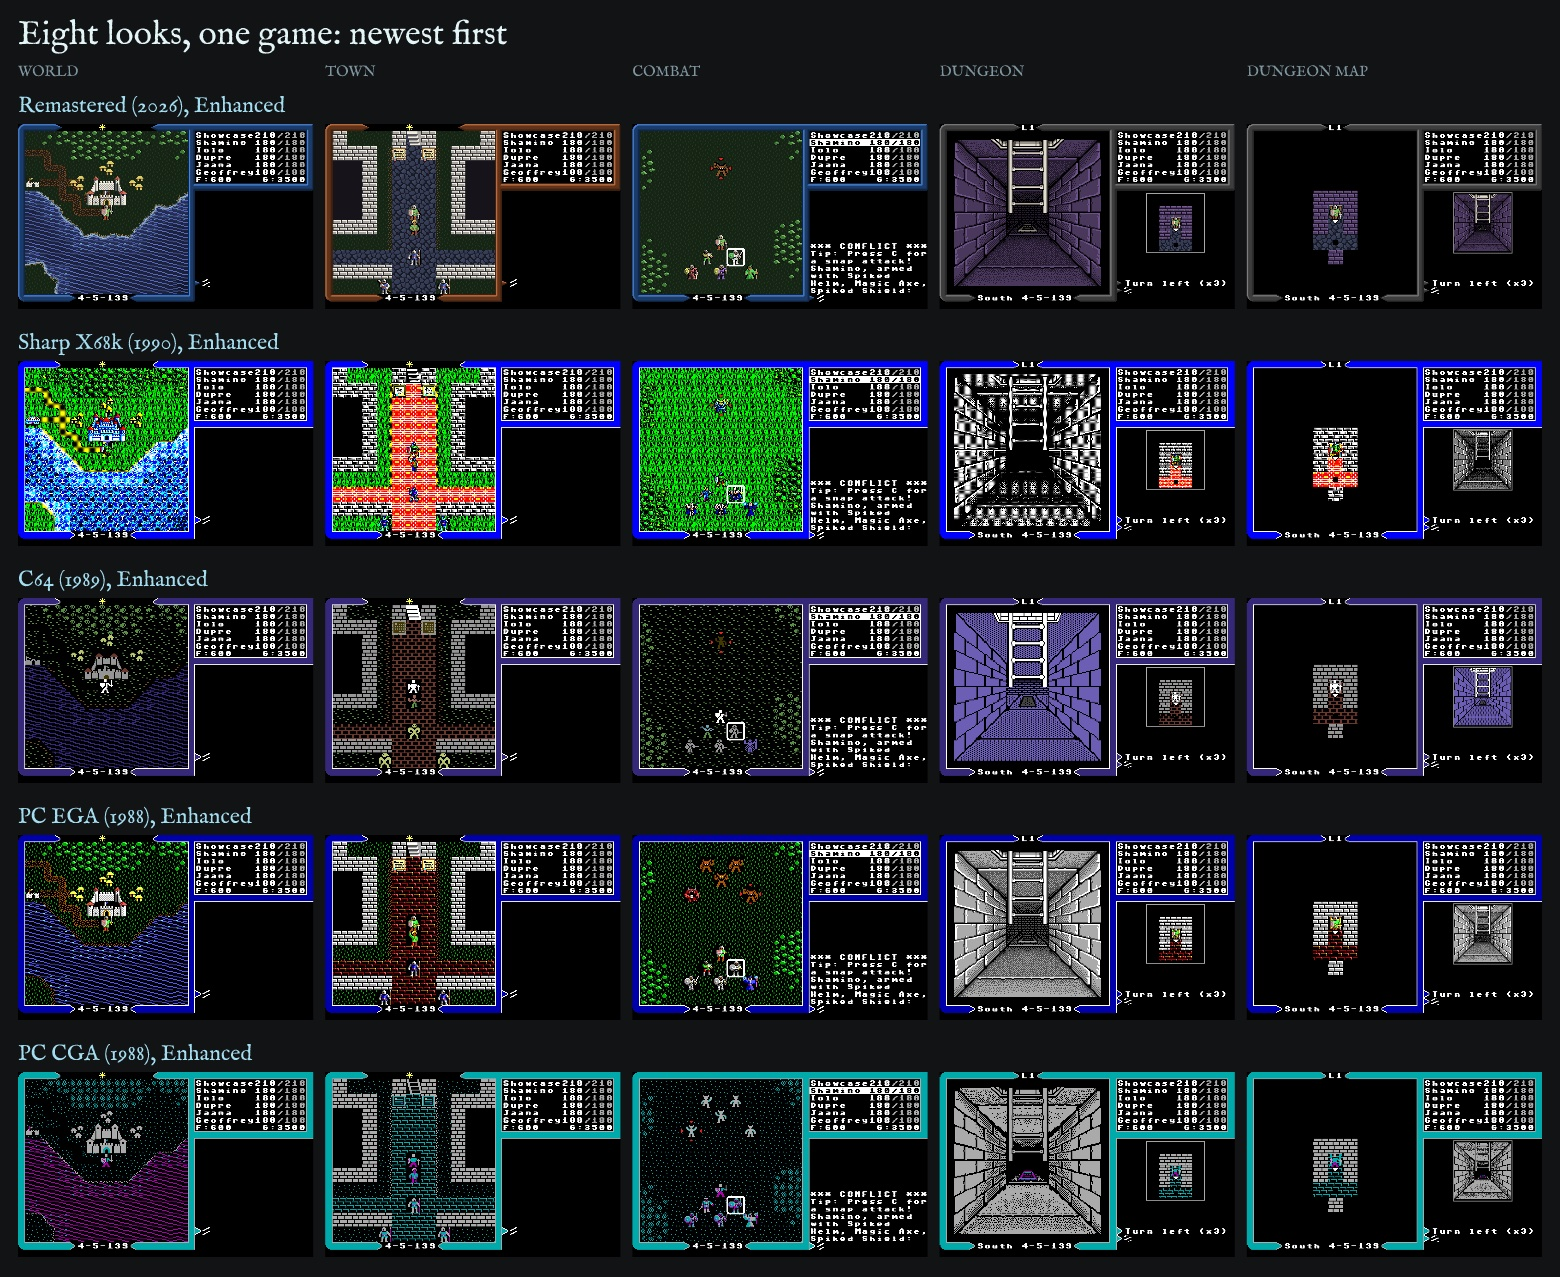
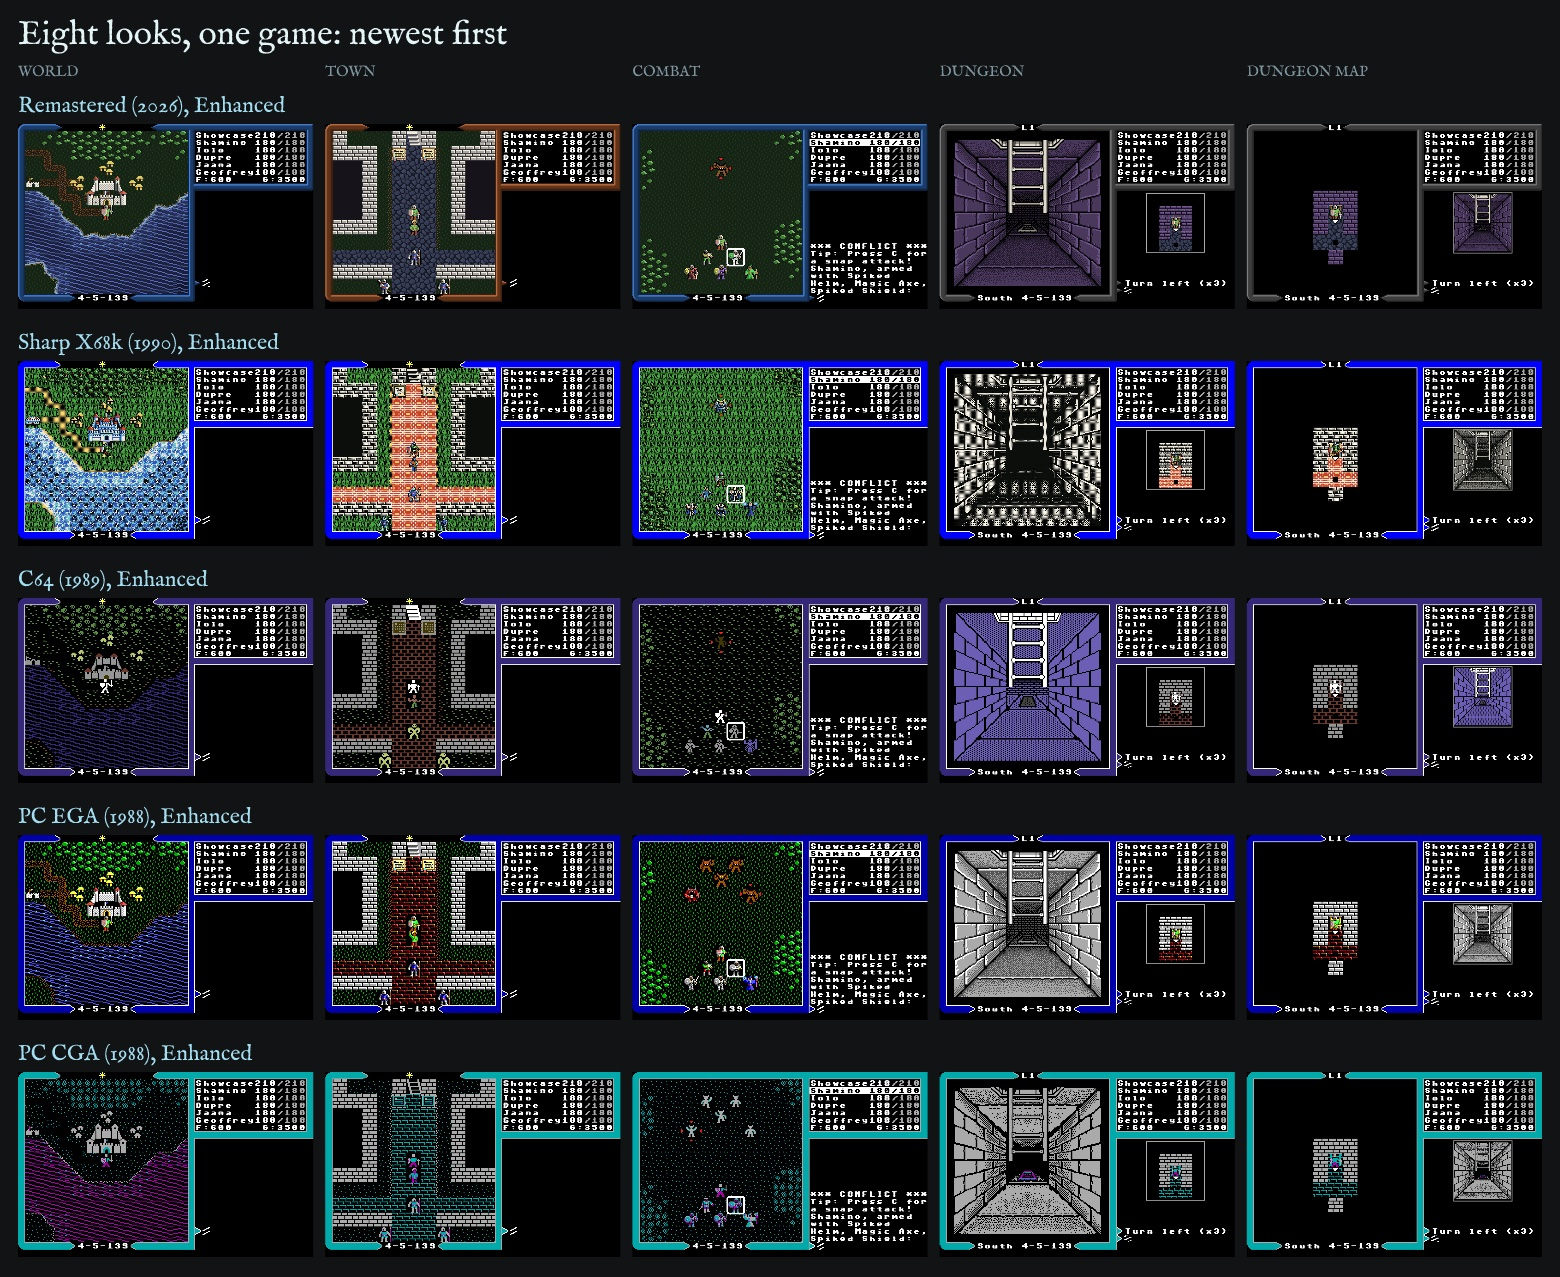
Sharp X68k: the softer colours kept, its pixels crisp again
The tone no longer blends each pixel with its neighbours across: the eight
colours are still shown as their softer ones, the dithers hard-edged. The
blend stays in sheetTone.ts, tested with a tone that asks for it. The looks
sheet's X68k row taken again, in the soft colours.

diff --git a/web/tests/x68kTone.test.ts b/web/tests/x68kTone.test.ts
@@ -4,7 +4,6 @@ import { decodePng } from '../tools/png.ts';
 import { cellOf, rgba, sheetArt, X68K_SHEET } from '../src/ui/sheetArt.ts';
 import { toned } from '../src/ui/sheetTone.ts';
 import { skinFromSheet, SKIN_SPECS, X68K_PALETTE, X68K_SOFT, X68K_TONE } from '../src/ui/skins.ts';
-import { CELL } from '../src/ui/standardArt.ts';
 
 const graphic = (name: string) => decodePng(readFileSync(new URL(`../public/graphics/${name}`, import.meta.url)));
 const words = (png: ReturnType<typeof decodePng>): Uint32Array =>
@@ -13,8 +12,8 @@ const CLEAR = 0;
 
 /**
  * The Sharp X68k set softened (sheetTone.ts): its eight colours, full on and full off as the X68000's text palette
- * has them, shown as gentler ones, and each pixel blended a little with its neighbours across, as a monitor ran the
- * dither's two colours together. The sheets stay the disk's own; the tone is laid on as each tile is drawn.
+ * has them, shown as gentler ones, each pixel kept crisp - none blended with its neighbours. (The blend itself is
+ * tested here with a tone that asks for it.) The sheets stay the disk's own; the tone is laid on as each tile is drawn.
  */
 describe('the Sharp X68k tone', () => {
   it('shows each of the eight colours as its softer one', () => {
@@ -41,16 +40,29 @@ describe('the Sharp X68k tone', () => {
     expect(Array.from(toned(big, 8, 1, { colours: new Map(), blend: true }, 2))).toEqual(Array.from(once).flatMap((v) => [v, v]));
   });
 
-  it("draws the set's squares softened: none of its full-on colours left, the grass blended", () => {
-    const png = graphic('x68k-u5-tiles.png');
-    const art = sheetArt(X68K_SHEET, new Uint8Array(512 * 128), words(png), png.width, null);
-    const grass = art.square(5)!;
-    const harsh = new Set(X68K_PALETTE.map(rgba));
-    expect(grass.some((v) => harsh.has(v))).toBe(false);
-    expect(Array.from(grass)).toEqual(Array.from(toned(cellOf(X68K_SHEET, words(png), png.width, 5), CELL, CELL, X68K_TONE, CELL / 32)));
+  it('blends nothing: its tone only shows each colour as its softer one', () => {
+    expect(X68K_TONE.blend).toBe(false);
   });
 
-  it('softens its dungeon, its lines and its sign as its tiles, and keeps its blue frame', () => {
+  it("draws the set's squares crisp: each pixel its soft colour, none blended", () => {
+    const png = graphic('x68k-u5-tiles.png');
+    const art = sheetArt(X68K_SHEET, new Uint8Array(512 * 128), words(png), png.width, null);
+    // The eight soft colours, and black where a figure's ground shows through: a blend would make colours between.
+    const soft = new Set([...X68K_SOFT.map(rgba), rgba(0x000000)]);
+    for (const tile of [5, 6, 8, 48, 0x100, 0x101]) {
+      const sq = art.square(tile)!;
+      expect(
+        sq.every((v) => v >>> 24 === 0 || soft.has(v)),
+        `tile ${tile}`,
+      ).toBe(true);
+    }
+    const grass = art.square(5)!;
+    const own = cellOf(X68K_SHEET, words(png), png.width, 5);
+    const asSoft = new Map(X68K_PALETTE.map((c, k) => [rgba(c), rgba(X68K_SOFT[k])]));
+    expect(Array.from(grass)).toEqual(Array.from(own, (v) => (v >>> 24 === 0 ? v : (asSoft.get(v) ?? v))));
+  });
+
+  it('softens its dungeon, its lines and its sign as its tiles, crisp, and keeps its blue frame', () => {
     const png = graphic('x68k-u5-dungeon.png');
     const spec = SKIN_SPECS.x68k!;
     const skin = skinFromSheet('x68k', words(png), png.width, spec.colours, spec.tone);
@@ -58,6 +70,8 @@ describe('the Sharp X68k tone', () => {
     const harsh = new Set(X68K_PALETTE.map(rgba));
     expect(wall.px.some((v) => v >>> 24 !== 0 && harsh.has(v))).toBe(false);
     const soft = new Set(X68K_SOFT.map(rgba));
+    // Each lit pixel one of the soft eight: none blended between them.
+    expect(wall.px.every((v) => v >>> 24 === 0 || soft.has(v))).toBe(true);
     for (const v of spec.colours.ink) expect(soft.has(v)).toBe(true);
     for (const c of [spec.colours.sign.edge, spec.colours.sign.ink]) expect(X68K_SOFT).toContain(c);
     expect(spec.colours.frame).toEqual({ blue: 0x0000ff, white: 0xffffff });

diff --git a/web/src/ui/skins.ts b/web/src/ui/skins.ts
@@ -178,7 +178,7 @@ export function skinFromSheet(
       if (!px) {
         px = new Uint32Array(w * h);
         for (let y = 0; y < h; y++) px.set(sheet.subarray((y0 + y) * width + x0, (y0 + y) * width + x0 + w), y * w);
-        // In the set's tone, where it has one (the X68k's), each piece alone: none blended with the next in the sheet.
+        // In the set's tone, where it has one (the X68k's), each piece alone (a tone that blends: none with the next in the sheet).
         if (tone) px = toned(px, w, h, tone);
         cut.set(key, px);
       }
@@ -218,11 +218,11 @@ export class SkinOvers {
 export const X68K_PALETTE = [0x000000, 0x0000ff, 0xff0000, 0xff00ff, 0x00ff00, 0x00ffff, 0xffff00, 0xffffff] as const;
 /**
  * The eight as the set shows them (sheetTone.ts): the text palette's full-on colours, harsh on a modern screen, as
- * gentler ones - in X68K_PALETTE's order.
+ * gentler ones, each pixel still its own (none blended) - in X68K_PALETTE's order.
  */
 export const X68K_SOFT = [0x0c0e0c, 0x3058c0, 0xc8442c, 0xa0508c, 0x44a03c, 0x6cc0cc, 0xe8c864, 0xece8dc] as const;
-/** The Sharp X68k set's tone: its eight as X68K_SOFT, each pixel blended with its neighbours across. */
-export const X68K_TONE: SheetTone = toneOf(X68K_PALETTE, X68K_SOFT, true);
+/** The Sharp X68k set's tone: its eight as X68K_SOFT, each pixel kept crisp (none blended with its neighbours). */
+export const X68K_TONE: SheetTone = toneOf(X68K_PALETTE, X68K_SOFT, false);
 /** A colour of the eight (0xRRGGBB) as the set shows it. */
 const x68kSoft = (c: number): number => X68K_SOFT[X68K_PALETTE.indexOf(c as (typeof X68K_PALETTE)[number])] ?? c;
 
@@ -357,8 +357,8 @@ export const SKIN_SPECS: Partial<
   },
   apple2e: monoSkin(APPLE_GREEN),
   apple2c: monoSkin(APPLE_WHITE),
-  // Its own dungeon off its disk 1 (tools/art/x68kDungeon.ts), in its text palette's colours shown softer, as its tiles
-  // are (X68K_TONE) - its lines and sign too; its frame the X68000's own blue and white, as the game drew it.
+  // Its own dungeon off its disk 1 (tools/art/x68kDungeon.ts), in its text palette's colours shown softer, its pixels
+  // crisp, as its tiles are (X68K_TONE) - its lines and sign too; its frame the X68000's own blue and white, as drawn.
   x68k: {
     sheet: 'x68k-u5-dungeon.png',
     colours: {

diff --git a/web/src/ui/sheetTone.ts b/web/src/ui/sheetTone.ts
@@ -2,9 +2,10 @@
  * sheetTone.ts
  *
  * A set's colours shown softer than its sheet has them (the Sharp X68k's: skins.ts X68K_TONE): each of its colours as
- * a gentler one, and each pixel blended a little with its neighbours across, as a monitor ran a dither's two colours
- * together. Laid on as a tile or a dungeon piece is drawn (sheetArt.ts, skins.ts), so the sheets stay the machine's own
- * and what is found in them by colour - the water, the fire - is found as before.
+ * a gentler one, its pixels kept crisp. A tone may also blend each pixel a little with its neighbours across, as a
+ * monitor ran a dither's two colours together; the X68k's does not (its players liked the colours, not the blur).
+ * Laid on as a tile or a dungeon piece is drawn (sheetArt.ts, skins.ts), so the sheets stay the machine's own and what
+ * is found in them by colour - the water, the fire - is found as before.
  */
 
 /** How a set's colours are shown. */

diff --git a/web/src/ui/sheetArt.ts b/web/src/ui/sheetArt.ts
@@ -53,7 +53,7 @@ export interface SheetSpec {
   tone?: SheetTone;
 }
 
-/** A cell as `spec`'s tone shows it, its own pixels blended as they are (each `CELL / spec.w` of the cell's across). */
+/** A cell as `spec`'s tone shows it; a tone that blends, its own pixels as they are (each `CELL / spec.w` of the cell's across). */
 function shown(spec: SheetSpec, cell: Uint32Array): Uint32Array {
   return spec.tone ? toned(cell, CELL, CELL, spec.tone, CELL / spec.w) : cell;
 }
@@ -322,7 +322,7 @@ export const X68K_SHEET: SheetSpec = {
   ground: 'clear',
   squares: false,
   water: [0x0000ff, 0x00ffff],
-  // Shown softer than the X68000's full-on colours, harsh on a modern screen (skins.ts X68K_TONE).
+  // Shown in softer colours than the X68000's full-on ones, harsh on a modern screen, its pixels crisp (skins.ts X68K_TONE).
   tone: X68K_TONE,
   fire: fireOf(
     new Map<number, number[]>([
